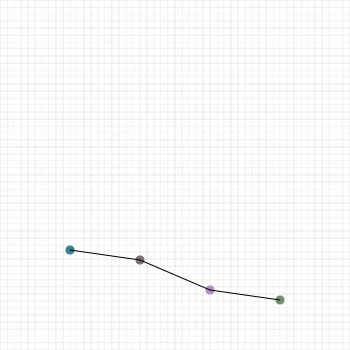
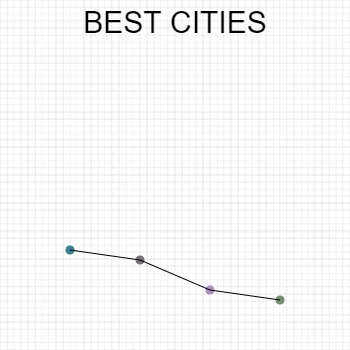
Modify canvas title position and changed gallery imgs accordingly

Changed region(s): [[0.4857, 0.0286, 0.7714, 0.1143], [0.2286, 0.0286, 0.4571, 0.1143]]

diff --git a/js/services/canvas.service.js b/js/services/canvas.service.js
@@ -12,14 +12,13 @@ var gCtx
 function clearCanvas(){
     gCtx.fillStyle = 'whitesmoke'
     // gCtx.fillStyle = '#f0f0f0'
-	gCtx.fillRect(0, 0, gElCanvas.width, gElCanvas.height)
-    document.querySelector('.chart-title').innerText = ''   
+	gCtx.fillRect(0, 0, gElCanvas.width, gElCanvas.height)   
 }
 
 function drawChart(){
-    const {theme, terms, title, valueType} = gChart
-    document.querySelector('.chart-title').innerText = title
-
+    const {theme, terms, title, valueType, backgroundName} = gChart
+    write(title, backgroundName)
+    
     const totalVal = terms.reduce((acc, term) =>  acc += +term.value, 0)
     terms.forEach(term => term.totalVal = totalVal)
 
@@ -319,6 +318,19 @@ function closeModal() {
 	document.querySelector('.modal').style.opacity = 0
 }
 
+function write(str, backgroundName, pos = {x:175, y:10}){
+    gCtx.font = '30px Arial'
+    gCtx.textAlign = 'center'
+	gCtx.textBaseline = 'top'
+
+    if(backgroundName==='.black') var color='white'
+    else color='black'
+
+    str = str.toUpperCase()
+    gCtx.fillStyle = color
+
+    gCtx.fillText(str, pos.x, pos.y)
+}
 
 
 

diff --git a/js/my-gallery.controller.js b/js/my-gallery.controller.js
@@ -1,17 +1,18 @@
 'use strict'
 
 
-function onOpenGalleryChart(idx){
-    gChart = GALLERY_CHARTS[idx]
-    const {background, terms} = gChart
-    gTermCount = terms.length
+// function onOpenGalleryChart(idx){
+//     gChart = GALLERY_CHARTS[idx]
+//     const {background, terms} = gChart
+//     gTermCount = terms.length
 
-    clearCanvas()
-    if(background) coverCanvasWithImg(background)
-    drawChart()
-    renderEditor()
-    updateChartTypeEditor() 
-}
+//     clearCanvas()
+//     if(background) coverCanvasWithImg(background)
+//     drawChart()
+    
+//     renderEditor()
+//     updateChartTypeEditor() 
+// }
 
 
 function renderGalleryImgs() {
@@ -38,6 +39,7 @@ function onSelectGalleryChart(elGalleryImg, idx, backgroundName=''){
     gTermCount = terms.length
     
     drawChart()
+    // write(title, backgroundName)
     renderEditor()
     updateChartTypeEditor()
 }

diff --git a/index.html b/index.html
@@ -48,7 +48,6 @@
         </section>
              
         <section class="chart-display">
-            <h2 class="chart-title"></h2>
             <canvas width="350" height="350" onmousemove="onMouseMove(event)"></canvas>
             <div class="canvas-btns">
                 <a href="#" class="btn download-btn" onclick="onDownloadImg(this)" download="my-img.jpg">Download</a>

diff --git a/js/chart.controller.js b/js/chart.controller.js
@@ -110,11 +110,12 @@ function onSubmit(ev){
 }
 
 function onDrawChart(){
-    const {background, backgroundName} = gChart 
+    const {background, backgroundName, title} = gChart 
     clearCanvas()
     updateFormData()
     if(background) coverCanvasWithImg(background)
     if(backgroundName) renderBackground(backgroundName)
+       
     drawChart()
 }
 

diff --git a/styles/components/chart.css b/styles/components/chart.css
@@ -31,17 +31,6 @@ canvas {
     font-size: 1.3em;
 }
 
-.chart-title {
-    position: absolute;
-    top: 0;
-    left: 50%;
-    translate: -50%;
-    width: max-content;
-    /* background-color: var(--primary--2); */
-    background-color: beige;
-    padding-inline: 1em;
-}
-
 .canvas-btns {
     display: grid; 
     align-content: start;
